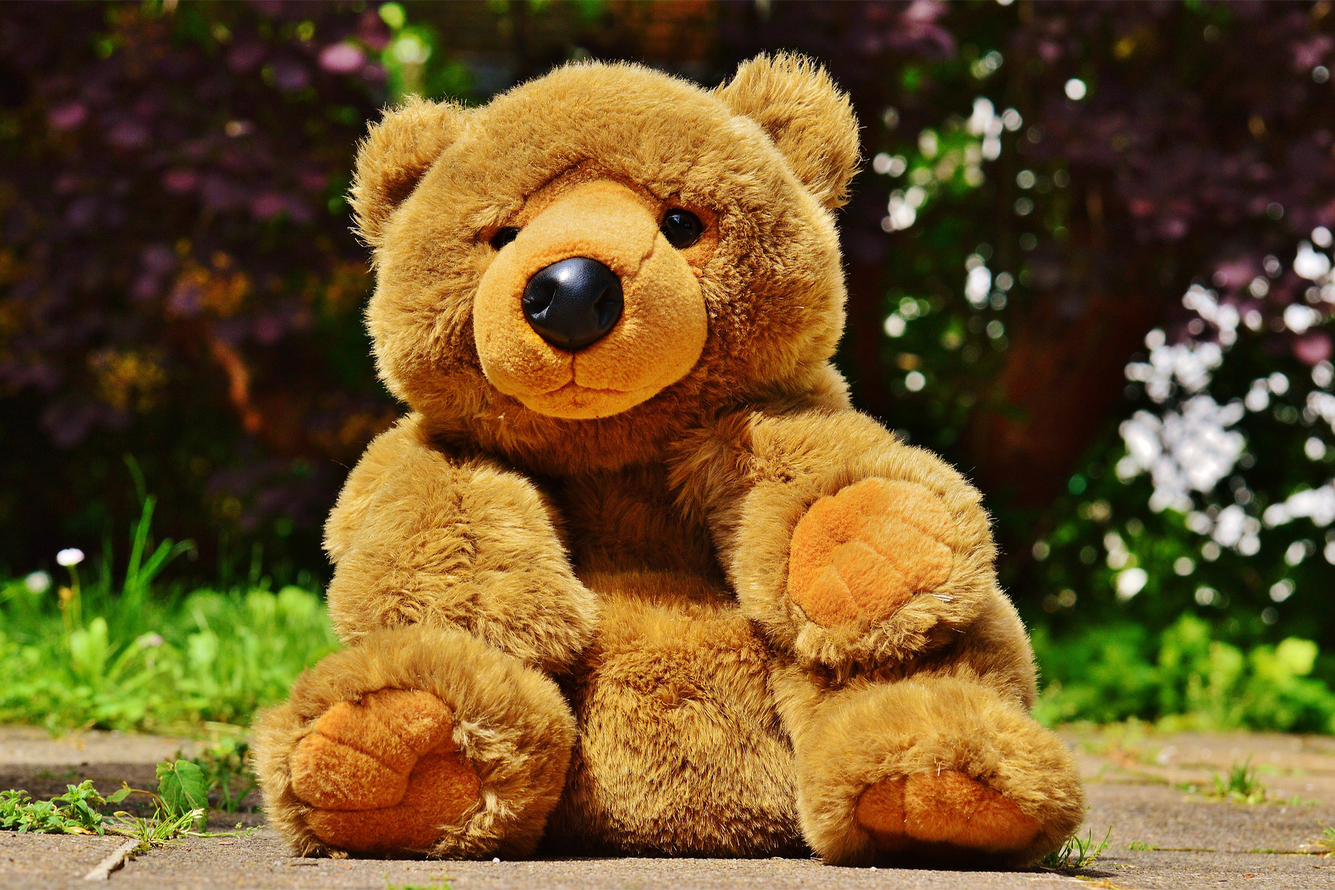
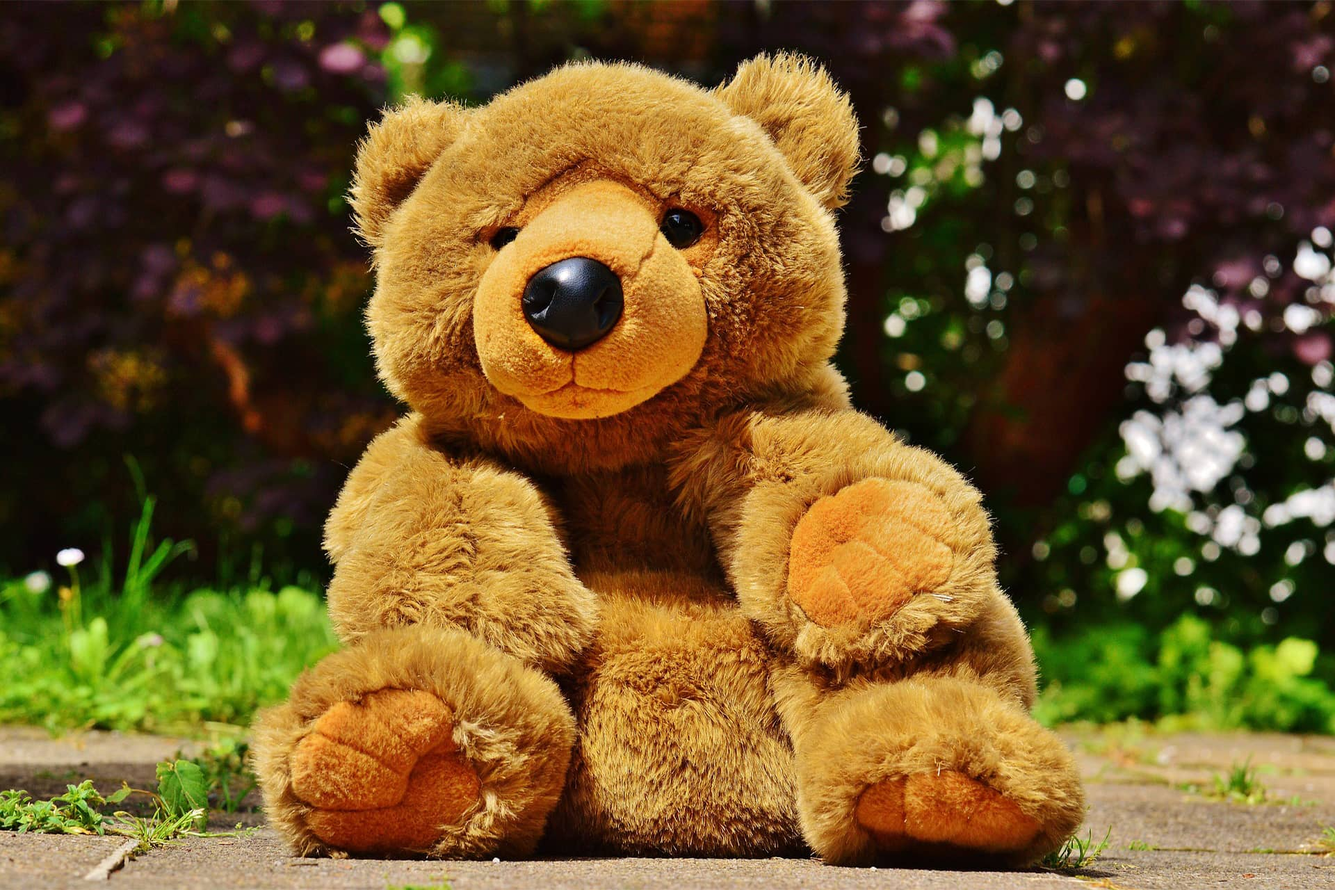
Optimisation des images, commencement JS produit seul

diff --git a/produit.html b/produit.html
@@ -58,7 +58,8 @@
         </header>
         <main class="container">
             <section class="row">
-                
+                <h2 id="name"></h2>
+                <p id="description"></p>
             </section>
         </main>
         <footer class="mt-5">
@@ -86,5 +87,6 @@
         <script src="https://code.jquery.com/jquery-3.4.1.slim.min.js" integrity="sha384-J6qa4849blE2+poT4WnyKhv5vZF5SrPo0iEjwBvKU7imGFAV0wwj1yYfoRSJoZ+n" crossorigin="anonymous"></script>
         <script src="https://cdn.jsdelivr.net/npm/popper.js@1.16.0/dist/umd/popper.min.js" integrity="sha384-Q6E9RHvbIyZFJoft+2mJbHaEWldlvI9IOYy5n3zV9zzTtmI3UksdQRVvoxMfooAo" crossorigin="anonymous"></script>
         <script src="https://stackpath.bootstrapcdn.com/bootstrap/4.4.1/js/bootstrap.min.js" integrity="sha384-wfSDF2E50Y2D1uUdj0O3uMBJnjuUD4Ih7YwaYd1iqfktj0Uod8GCExl3Og8ifwB6" crossorigin="anonymous"></script>
+        <script src="produit.js" async></script>
     </body>
 </html>

diff --git a/produit.js b/produit.js
@@ -1,0 +1,25 @@
+let url = new URL(document.location.href);
+let id = url.searchParams.get("id");
+console.log(id);
+
+//création requête get
+var request = new XMLHttpRequest();
+request.onreadystatechange = function() {
+    if (this.readyState == XMLHttpRequest.DONE && this.status == 200) {
+        var response = JSON.parse(this.responseText);
+        requestDone (response)
+    }
+};
+console.log("http://localhost:3000/api/teddies/"+id);
+request.open("GET", "http://localhost:3000/api/teddies/"+id);
+request.send();
+
+//fonction succès requête
+function requestDone (response) {
+    console.log(response);
+    let name = document.getElementById('name');
+    name.innerHTML = response.name;
+
+    let description = document.getElementById('description');
+    description.innerHTML = response.description;
+}

diff --git a/produits.html b/produits.html
@@ -86,6 +86,6 @@
         <script src="https://code.jquery.com/jquery-3.4.1.slim.min.js" integrity="sha384-J6qa4849blE2+poT4WnyKhv5vZF5SrPo0iEjwBvKU7imGFAV0wwj1yYfoRSJoZ+n" crossorigin="anonymous"></script>
         <script src="https://cdn.jsdelivr.net/npm/popper.js@1.16.0/dist/umd/popper.min.js" integrity="sha384-Q6E9RHvbIyZFJoft+2mJbHaEWldlvI9IOYy5n3zV9zzTtmI3UksdQRVvoxMfooAo" crossorigin="anonymous"></script>
         <script src="https://stackpath.bootstrapcdn.com/bootstrap/4.4.1/js/bootstrap.min.js" integrity="sha384-wfSDF2E50Y2D1uUdj0O3uMBJnjuUD4Ih7YwaYd1iqfktj0Uod8GCExl3Og8ifwB6" crossorigin="anonymous"></script>
-        <script src="card_produit.js" async></script>
+        <script src="produits.js" async></script>
     </body>
 </html>

diff --git a/produits.js b/produits.js
@@ -36,8 +36,8 @@ function requestDone (response) {
         +'</div>';
 
         //append de la carte sur la listeCartes
-        listeCartes.appendChild(carte);
+        listeCartes.appendChild(carte); //permet d'ajouter les cartes sur la page
     }
-    console.log(listeCartes);
+    console.log(listeCartes); 
 }
 
